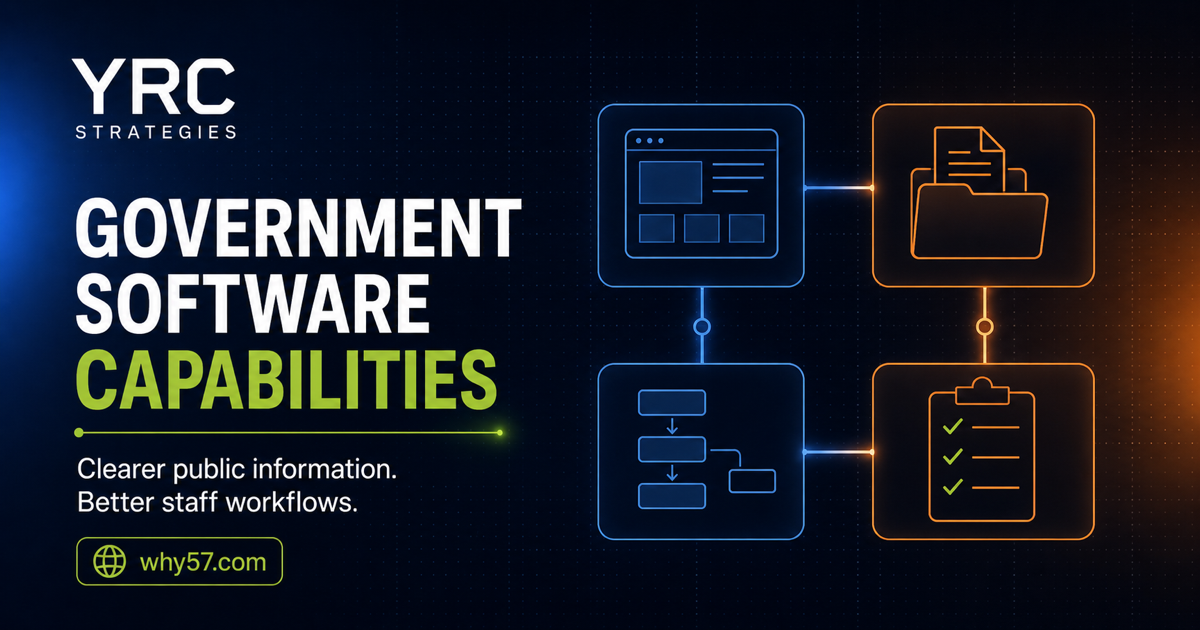
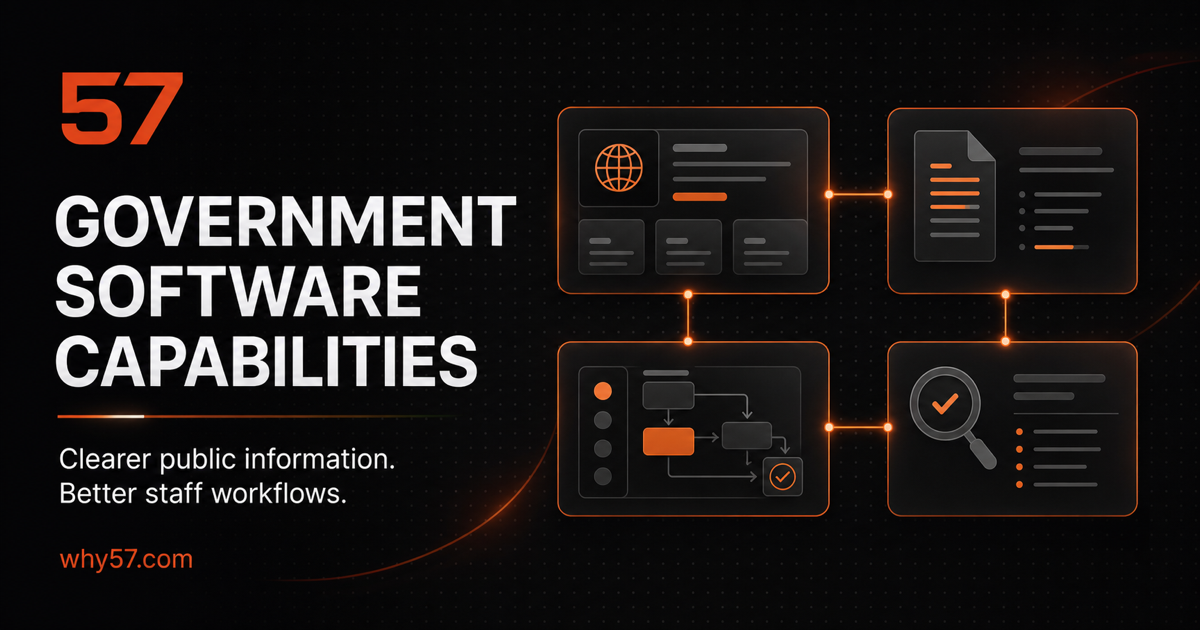
Align government page with 57 brand

diff --git a/government-capabilities.html b/government-capabilities.html
@@ -7,17 +7,17 @@
   <meta name="viewport" content="width=device-width, initial-scale=1.0" />
   <meta name="robots" content="index,follow,max-image-preview:large" />
   <link rel="canonical" href="https://why57.com/government-capabilities.html" />
-  <title>Government Software Capabilities | YRC STRATEGIES</title>
-  <meta name="description" content="YRC STRATEGIES provides scoped website modernization, document libraries, workflow tools, dashboards, integrations, QA, and public-content delivery." />
+  <title>Government Software Capabilities | 57</title>
+  <meta name="description" content="57 provides scoped website modernization, document libraries, workflow tools, dashboards, integrations, QA, and public-content delivery." />
   <meta name="author" content="Georgiy Yeremin" />
-  <meta property="og:title" content="Government Software Capabilities | YRC STRATEGIES" />
+  <meta property="og:title" content="Government Software Capabilities | 57" />
   <meta property="og:description" content="Verified procurement details and focused digital modernization capabilities for public information and staff workflows." />
   <meta property="og:image" content="https://why57.com/images/government-capabilities-og.png" />
   <meta property="og:url" content="https://why57.com/government-capabilities.html" />
   <meta property="og:type" content="website" />
-  <meta property="og:site_name" content="YRC STRATEGIES" />
+  <meta property="og:site_name" content="57 Custom Software Development" />
   <meta name="twitter:card" content="summary_large_image" />
-  <meta name="twitter:title" content="Government Software Capabilities | YRC STRATEGIES" />
+  <meta name="twitter:title" content="Government Software Capabilities | 57" />
   <meta name="twitter:description" content="Verified procurement details and focused digital modernization capabilities for public information and staff workflows." />
   <meta name="twitter:image" content="https://why57.com/images/government-capabilities-og.png" />
   <link rel="icon" type="image/png" href="images/favicon_square.png" />
@@ -60,7 +60,7 @@
         "@id": "https://why57.com/government-capabilities.html#service",
         "name": "Digital modernization for public information and staff workflows",
         "serviceType": "Website modernization, document libraries, workflow tools, dashboards, integrations, and software delivery support",
-        "description": "YRC STRATEGIES provides scoped digital modernization services for public information and staff workflows.",
+        "description": "57 provides scoped digital modernization services for public information and staff workflows through the identified contracting entity.",
         "provider": {
           "@id": "https://why57.com/government-capabilities.html#organization"
         },
@@ -92,28 +92,17 @@
 
   <style>
     .government-page{
-      --gov-navy:#102d4d;
-      --gov-blue:#2f82c8;
-      --gov-green:#83ff63;
-      --gov-paper:#eef6f1;
+      --gov-navy:var(--bg-alt);
+      --gov-blue:var(--orange);
+      --gov-green:var(--amber);
+      --gov-paper:var(--text);
       --muted:rgba(237,237,239,.68);
       --dim:rgba(237,237,239,.52);
     }
     .government-page main{overflow:hidden;}
-    .government-page .nav-logo{gap:13px;}
-    .government-page .nav-logo::after{
-      content:"YRC STRATEGIES";
-      padding-left:13px;
-      border-left:1px solid rgba(255,255,255,.16);
-      color:rgba(237,237,239,.82);
-      font-size:.69rem;
-      font-weight:700;
-      letter-spacing:.12em;
-      white-space:nowrap;
-    }
     .government-page .nav-links{gap:22px;}
-    .government-page .nav-cta{color:var(--gov-green);border-color:rgba(131,255,99,.28);background:rgba(131,255,99,.07);}
-    .government-page .nav-cta:hover{border-color:rgba(131,255,99,.52);background:rgba(131,255,99,.12);box-shadow:0 4px 18px rgba(131,255,99,.08);}
+    .government-page .nav-cta{color:var(--amber);border-color:rgba(var(--glow),.3);background:rgba(var(--glow),.12);}
+    .government-page .nav-cta:hover{border-color:rgba(var(--glow),.5);background:rgba(var(--glow),.22);box-shadow:0 4px 18px rgba(var(--glow),.16);}
 
     .gov-hero{position:relative;padding:152px 0 86px;isolation:isolate;}
     .gov-hero::before{
@@ -123,7 +112,7 @@
       inset:-150px -10% auto;
       height:760px;
       background:
-        radial-gradient(circle at 78% 24%,rgba(47,130,200,.22),transparent 30%),
+        radial-gradient(circle at 78% 24%,rgba(var(--glow),.17),transparent 30%),
         radial-gradient(circle at 16% 22%,rgba(224,76,40,.15),transparent 27%);
       pointer-events:none;
     }
@@ -134,40 +123,40 @@
       gap:9px;
       padding:7px 12px;
       margin-bottom:22px;
-      border:1px solid rgba(131,255,99,.22);
+      border:1px solid rgba(var(--glow),.25);
       border-radius:999px;
-      background:rgba(131,255,99,.055);
-      color:var(--gov-green);
+      background:rgba(var(--glow),.08);
+      color:var(--amber);
       font-family:var(--mono);
       font-size:.67rem;
       font-weight:700;
       letter-spacing:.1em;
       text-transform:uppercase;
     }
-    .gov-eyebrow::before{content:"";width:6px;height:6px;border-radius:50%;background:var(--gov-green);box-shadow:0 0 15px rgba(131,255,99,.65);}
+    .gov-eyebrow::before{content:"";width:6px;height:6px;border-radius:50%;background:var(--orange);box-shadow:0 0 15px rgba(var(--glow),.65);}
     .gov-title{max-width:720px;margin:0 0 23px;font-size:clamp(2.9rem,5.8vw,5.45rem);font-weight:800;line-height:.99;letter-spacing:-.065em;}
     .gov-title span{color:var(--gov-blue);}
     .gov-lede{max-width:650px;margin-bottom:29px;color:rgba(237,237,239,.69);font-size:1.06rem;line-height:1.78;}
     .gov-actions{display:flex;flex-wrap:wrap;gap:12px;margin-bottom:22px;}
-    .gov-actions .btn-primary{background:var(--gov-blue);box-shadow:0 2px 15px rgba(47,130,200,.25);}
-    .gov-actions .btn-primary:hover{background:#4099df;box-shadow:0 8px 28px rgba(47,130,200,.35);}
+    .gov-actions .btn-primary{background:var(--orange);box-shadow:0 2px 15px rgba(var(--glow),.25);}
+    .gov-actions .btn-primary:hover{background:var(--amber);box-shadow:0 8px 28px rgba(var(--glow),.35);}
     .gov-hero-note{max-width:660px;color:var(--dim);font-size:.75rem;line-height:1.65;}
     .gov-hero-note strong{color:rgba(237,237,239,.72);font-weight:600;}
 
-    .procurement-card{position:relative;padding:25px;border:1px solid rgba(255,255,255,.12);border-radius:22px;background:linear-gradient(150deg,rgba(16,45,77,.86),rgba(8,12,20,.94));box-shadow:0 30px 78px rgba(0,0,0,.38),inset 0 1px rgba(255,255,255,.07);overflow:hidden;}
+    .procurement-card{position:relative;padding:25px;border:1px solid rgba(255,255,255,.12);border-radius:22px;background:linear-gradient(150deg,rgba(var(--glow),.1),rgba(8,8,14,.96) 52%);box-shadow:0 30px 78px rgba(0,0,0,.38),inset 0 1px rgba(255,255,255,.07);overflow:hidden;}
     .procurement-card::before{content:"";position:absolute;inset:0;background-image:radial-gradient(rgba(255,255,255,.18) .7px,transparent .7px);background-size:17px 17px;opacity:.14;mask-image:linear-gradient(145deg,black,transparent 67%);pointer-events:none;}
     .procurement-head{position:relative;display:flex;align-items:flex-start;justify-content:space-between;gap:18px;padding-bottom:20px;margin-bottom:4px;border-bottom:1px solid rgba(255,255,255,.11);}
     .procurement-head p{font-family:var(--mono);font-size:.63rem;line-height:1.5;letter-spacing:.1em;text-transform:uppercase;color:rgba(237,237,239,.62);}
     .procurement-head h2{margin-top:6px;font-size:1.35rem;line-height:1.1;letter-spacing:-.03em;}
-    .status-chip{display:inline-flex;align-items:center;gap:7px;padding:7px 9px;border:1px solid rgba(131,255,99,.24);border-radius:999px;background:rgba(131,255,99,.07);color:var(--gov-green);font-family:var(--mono);font-size:.58rem;letter-spacing:.08em;text-transform:uppercase;white-space:nowrap;}
-    .status-chip i{width:6px;height:6px;border-radius:50%;background:var(--gov-green);box-shadow:0 0 10px rgba(131,255,99,.6);}
+    .status-chip{display:inline-flex;align-items:center;gap:7px;padding:7px 9px;border:1px solid rgba(var(--glow),.3);border-radius:999px;background:rgba(var(--glow),.09);color:var(--amber);font-family:var(--mono);font-size:.58rem;letter-spacing:.08em;text-transform:uppercase;white-space:nowrap;}
+    .status-chip i{width:6px;height:6px;border-radius:50%;background:var(--orange);box-shadow:0 0 10px rgba(var(--glow),.6);}
     .identity-grid{position:relative;display:grid;grid-template-columns:1fr 1fr;}
     .identity-item{min-width:0;padding:18px 12px 17px;border-bottom:1px solid rgba(255,255,255,.09);}
     .identity-item:nth-child(odd){padding-left:0;border-right:1px solid rgba(255,255,255,.09);}
     .identity-item:nth-child(even){padding-right:0;padding-left:18px;}
     .identity-item dt{margin-bottom:7px;color:rgba(237,237,239,.6);font-family:var(--mono);font-size:.6rem;letter-spacing:.09em;text-transform:uppercase;}
     .identity-item dd{overflow-wrap:anywhere;color:var(--text);font-size:.9rem;font-weight:700;line-height:1.35;}
-    .identity-item dd a{color:var(--gov-green);}
+    .identity-item dd a{color:var(--amber);}
     .identity-note{position:relative;padding-top:17px;color:rgba(237,237,239,.58);font-size:.67rem;line-height:1.6;}
 
     .gov-trust-strip{border-top:1px solid var(--border);border-bottom:1px solid var(--border);background:rgba(255,255,255,.018);}
@@ -187,15 +176,15 @@
 
     .capability-grid{display:grid;grid-template-columns:repeat(2,1fr);gap:15px;margin-top:46px;}
     .capability-card{position:relative;min-height:250px;padding:28px;border:1px solid var(--border);border-radius:17px;background:linear-gradient(145deg,rgba(255,255,255,.055),rgba(255,255,255,.018));overflow:hidden;transition:transform .25s,border-color .25s;}
-    .capability-card:hover{transform:translateY(-4px);border-color:rgba(47,130,200,.38);}
-    .capability-number{display:grid;place-items:center;width:32px;height:32px;margin-bottom:42px;border:1px solid rgba(47,130,200,.36);border-radius:9px;background:rgba(47,130,200,.08);color:#7fc7ff;font-family:var(--mono);font-size:.66rem;}
+    .capability-card:hover{transform:translateY(-4px);border-color:rgba(var(--glow),.42);}
+    .capability-number{display:grid;place-items:center;width:32px;height:32px;margin-bottom:42px;border:1px solid rgba(var(--glow),.38);border-radius:9px;background:rgba(var(--glow),.1);color:var(--amber);font-family:var(--mono);font-size:.66rem;}
     .capability-card h3{margin-bottom:11px;font-size:1.2rem;letter-spacing:-.025em;}
     .capability-card p{max-width:52ch;color:var(--muted);font-size:.89rem;line-height:1.72;}
-    .capability-card small{display:block;margin-top:18px;color:rgba(131,255,99,.66);font-family:var(--mono);font-size:.62rem;line-height:1.5;letter-spacing:.04em;}
+    .capability-card small{display:block;margin-top:18px;color:var(--amber);font-family:var(--mono);font-size:.62rem;line-height:1.5;letter-spacing:.04em;}
 
     .work-intro{display:grid;grid-template-columns:minmax(0,.78fr) minmax(440px,1.22fr);gap:72px;align-items:end;}
-    .work-disclaimer{padding:18px 19px;border-left:2px solid var(--gov-green);background:rgba(131,255,99,.035);color:rgba(237,237,239,.61);font-size:.84rem;line-height:1.7;}
-    .work-disclaimer strong{display:block;margin-bottom:4px;color:var(--gov-green);font-size:.72rem;text-transform:uppercase;letter-spacing:.08em;}
+    .work-disclaimer{padding:18px 19px;border-left:2px solid var(--orange);background:rgba(var(--glow),.045);color:rgba(237,237,239,.68);font-size:.84rem;line-height:1.7;}
+    .work-disclaimer strong{display:block;margin-bottom:4px;color:var(--amber);font-size:.72rem;text-transform:uppercase;letter-spacing:.08em;}
     .work-grid{display:grid;grid-template-columns:repeat(3,1fr);gap:14px;margin-top:42px;}
     .work-card{min-height:260px;padding:24px;border:1px solid var(--border);border-radius:15px;background:rgba(255,255,255,.025);}
     .work-type{display:inline-flex;margin-bottom:47px;color:var(--gov-blue);font-family:var(--mono);font-size:.64rem;letter-spacing:.08em;text-transform:uppercase;}
@@ -205,10 +194,10 @@
     .process-grid{display:grid;grid-template-columns:repeat(3,1fr);margin-top:46px;border:1px solid var(--border);border-radius:18px;background:rgba(255,255,255,.018);overflow:hidden;}
     .process-step{position:relative;min-height:245px;padding:28px;border-right:1px solid var(--border);}
     .process-step:last-child{border-right:0;}
-    .process-step b{display:inline-flex;margin-bottom:54px;color:var(--gov-green);font-family:var(--mono);font-size:.7rem;letter-spacing:.1em;}
+    .process-step b{display:inline-flex;margin-bottom:54px;color:var(--amber);font-family:var(--mono);font-size:.7rem;letter-spacing:.1em;}
     .process-step h3{margin-bottom:10px;font-size:1.16rem;letter-spacing:-.02em;}
     .process-step p{color:var(--muted);font-size:.86rem;line-height:1.7;}
-    .process-step::after{content:"→";position:absolute;z-index:2;top:calc(50% - 13px);right:-13px;display:grid;place-items:center;width:26px;height:26px;border:1px solid rgba(47,130,200,.32);border-radius:50%;background:#0b0d14;color:var(--gov-blue);font-size:.8rem;}
+    .process-step::after{content:"→";position:absolute;z-index:2;top:calc(50% - 13px);right:-13px;display:grid;place-items:center;width:26px;height:26px;border:1px solid rgba(var(--glow),.36);border-radius:50%;background:#0b0d14;color:var(--orange);font-size:.8rem;}
     .process-step:last-child::after{display:none;}
 
     .snapshot-layout{display:grid;grid-template-columns:minmax(300px,.76fr) minmax(500px,1.24fr);gap:70px;align-items:start;}
@@ -222,24 +211,24 @@
     .snapshot-row dt{border-right:1px solid var(--border);color:rgba(237,237,239,.6);font-family:var(--mono);font-size:.62rem;line-height:1.5;letter-spacing:.07em;text-transform:uppercase;}
     .snapshot-row dd{color:rgba(237,237,239,.79);font-size:.86rem;font-weight:600;line-height:1.6;overflow-wrap:anywhere;}
     .snapshot-row dd small{display:block;margin-top:4px;color:var(--dim);font-size:.68rem;font-weight:400;line-height:1.55;}
-    .snapshot-row a{color:#7fc7ff;text-decoration:underline;text-decoration-color:rgba(127,199,255,.35);text-underline-offset:3px;}
+    .snapshot-row a{color:var(--amber);text-decoration:underline;text-decoration-color:rgba(var(--glow),.38);text-underline-offset:3px;}
 
-    .security-panel{position:relative;display:grid;grid-template-columns:minmax(0,.9fr) minmax(420px,1.1fr);gap:64px;padding:40px;border:1px solid rgba(255,255,255,.11);border-radius:22px;background:linear-gradient(145deg,rgba(16,45,77,.48),rgba(8,9,15,.88));overflow:hidden;}
-    .security-panel::after{content:"";position:absolute;right:-140px;bottom:-180px;width:430px;height:430px;border-radius:50%;background:radial-gradient(circle,rgba(47,130,200,.17),transparent 67%);pointer-events:none;}
+    .security-panel{position:relative;display:grid;grid-template-columns:minmax(0,.9fr) minmax(420px,1.1fr);gap:64px;padding:40px;border:1px solid rgba(255,255,255,.11);border-radius:22px;background:linear-gradient(145deg,rgba(var(--glow),.1),rgba(8,9,15,.92) 48%);overflow:hidden;}
+    .security-panel::after{content:"";position:absolute;right:-140px;bottom:-180px;width:430px;height:430px;border-radius:50%;background:radial-gradient(circle,rgba(var(--glow),.14),transparent 67%);pointer-events:none;}
     .security-list{position:relative;z-index:1;display:grid;gap:11px;}
     .security-list li{list-style:none;display:grid;grid-template-columns:22px 1fr;gap:11px;color:rgba(237,237,239,.67);font-size:.84rem;line-height:1.55;}
-    .security-list li::before{content:"✓";display:grid;place-items:center;width:20px;height:20px;border:1px solid rgba(131,255,99,.27);border-radius:6px;background:rgba(131,255,99,.055);color:var(--gov-green);font-family:var(--mono);font-size:.67rem;}
+    .security-list li::before{content:"✓";display:grid;place-items:center;width:20px;height:20px;border:1px solid rgba(var(--glow),.32);border-radius:6px;background:rgba(var(--glow),.08);color:var(--amber);font-family:var(--mono);font-size:.67rem;}
     .security-limit{position:relative;z-index:1;margin-top:28px;padding-top:24px;border-top:1px solid rgba(255,255,255,.09);color:rgba(237,237,239,.6);font-size:.74rem;line-height:1.65;}
     .security-limit strong{color:rgba(237,237,239,.72);}
 
     .gov-contact{position:relative;padding:104px 0;}
-    .gov-contact-card{position:relative;padding:52px;border:1px solid rgba(255,255,255,.12);border-radius:24px;background:linear-gradient(140deg,rgba(47,130,200,.18),rgba(224,76,40,.09) 55%,rgba(255,255,255,.025));overflow:hidden;}
+    .gov-contact-card{position:relative;padding:52px;border:1px solid rgba(255,255,255,.12);border-radius:24px;background:linear-gradient(140deg,rgba(var(--glow),.16),rgba(224,76,40,.07) 55%,rgba(255,255,255,.025));overflow:hidden;}
     .gov-contact-grid{position:relative;display:grid;grid-template-columns:minmax(0,1.1fr) minmax(330px,.9fr);gap:56px;align-items:center;}
     .gov-contact h2{max-width:720px;margin-bottom:16px;font-size:clamp(2.15rem,4.8vw,4.1rem);font-weight:800;line-height:1.04;letter-spacing:-.055em;}
     .gov-contact p{max-width:670px;color:var(--muted);font-size:.94rem;line-height:1.75;}
     .contact-actions{display:flex;flex-direction:column;gap:11px;}
     .contact-action{display:flex;align-items:center;justify-content:space-between;gap:18px;padding:17px 18px;border:1px solid rgba(255,255,255,.12);border-radius:12px;background:rgba(7,7,13,.47);transition:border-color .2s,transform .2s,background .2s;}
-    .contact-action:hover{transform:translateY(-2px);border-color:rgba(47,130,200,.42);background:rgba(47,130,200,.08);}
+    .contact-action:hover{transform:translateY(-2px);border-color:rgba(var(--glow),.46);background:rgba(var(--glow),.08);}
     .contact-action span{color:var(--text);font-size:.86rem;font-weight:650;}
     .contact-action small{display:block;margin-top:2px;color:var(--dim);font-size:.67rem;font-weight:400;}
     .contact-action b{color:var(--gov-blue);font-size:1.1rem;}
@@ -328,19 +317,19 @@
         <div class="fade-up">
           <div class="gov-eyebrow">Government and public-sector capability</div>
           <h1 class="gov-title" id="government-page-title">Clearer public information. <span>Better staff workflows.</span></h1>
-          <p class="gov-lede">YRC STRATEGIES helps small public agencies assess difficult websites, document libraries, portals, and manual workflows, then define and deliver a bounded software improvement staff can operate.</p>
+          <p class="gov-lede">57 helps small public agencies assess difficult websites, document libraries, portals, and manual workflows, then define and deliver a bounded software improvement staff can operate.</p>
           <div class="gov-actions">
             <a href="downloads/YRC_STRATEGIES_Government_Capability_Statement_2026-07-16.pdf" class="btn-primary btn-lg" download>Download capability statement</a>
             <a href="#procurement" class="btn-ghost">View procurement details ↓</a>
           </div>
-          <p class="gov-hero-note"><strong>Contracting entity: YRC STRATEGIES.</strong> Capabilities on this page are commercial delivery capabilities. They do not imply an agency award, government past performance, certification, contract vehicle, or security authorization.</p>
+          <p class="gov-hero-note">Capabilities shown here describe the work 57 can deliver. Verified procurement details and contracting information appear below.</p>
         </div>
 
         <aside class="procurement-card fade-up delay-1" aria-label="Verified procurement identity">
           <div class="procurement-head">
             <div>
-              <p>Verified entity snapshot</p>
-              <h2>YRC STRATEGIES</h2>
+              <p>Government capability profile</p>
+              <h2>Procurement snapshot</h2>
             </div>
             <span class="status-chip"><i aria-hidden="true"></i>SAM active</span>
           </div>
@@ -370,7 +359,7 @@
               <dd><a href="mailto:[email redacted]">[email redacted]</a></dd>
             </div>
           </dl>
-          <p class="identity-note">Registration details reviewed July 17, 2026. Buyers should confirm current status and representations directly in SAM.gov for each procurement.</p>
+          <p class="identity-note"><strong>Contracting entity: YRC STRATEGIES.</strong> Registration details reviewed July 17, 2026. Buyers should confirm current status and representations directly in SAM.gov.</p>
         </aside>
       </div>
     </section>
@@ -486,8 +475,8 @@
           <h2 class="gov-section-title" id="procurement-title">Current facts a buyer can verify.</h2>
           <p class="gov-section-sub">Unknown credentials and registrations are omitted. Registration is not described as approval, certification, endorsement, or a guarantee of award.</p>
           <div class="snapshot-guardrail">
-            <strong>Contracting identity</strong>
-            YRC STRATEGIES is the contracting entity for the capabilities described here. Procurement documents, contracts, insurance certificates, and invoices should identify YRC STRATEGIES unless an updated official record establishes an additional trade name.
+            <strong>Contracting note</strong>
+            Government contracts, insurance certificates, and invoices use YRC STRATEGIES, the legal entity associated with this capability profile.
           </div>
         </div>
         <dl class="snapshot-card fade-up delay-1">
@@ -580,8 +569,8 @@
     <div class="container footer-inner">
       <a href="/" class="footer-logo" aria-label="WHY57 home"><img src="images/57_wht_notext.png" alt="57" class="footer-logo-img" /></a>
       <div class="footer-address">
-        <span>YRC STRATEGIES</span>
-        <span class="gov-footer-identity">Government contracting entity · Forestville, California</span>
+        <span>57 Custom Software Development</span>
+        <span class="gov-footer-identity">Government contracting entity: YRC STRATEGIES</span>
       </div>
       <nav class="footer-nav" aria-label="Footer navigation">
         <a href="/#services">Services</a>
@@ -590,7 +579,7 @@
         <a href="privacy.html">Privacy</a>
         <a href="terms.html">Terms</a>
       </nav>
-      <p class="footer-copy">&copy; 2026 YRC STRATEGIES. All rights reserved.</p>
+      <p class="footer-copy">&copy; 2026 57. All rights reserved.</p>
     </div>
   </footer>
 